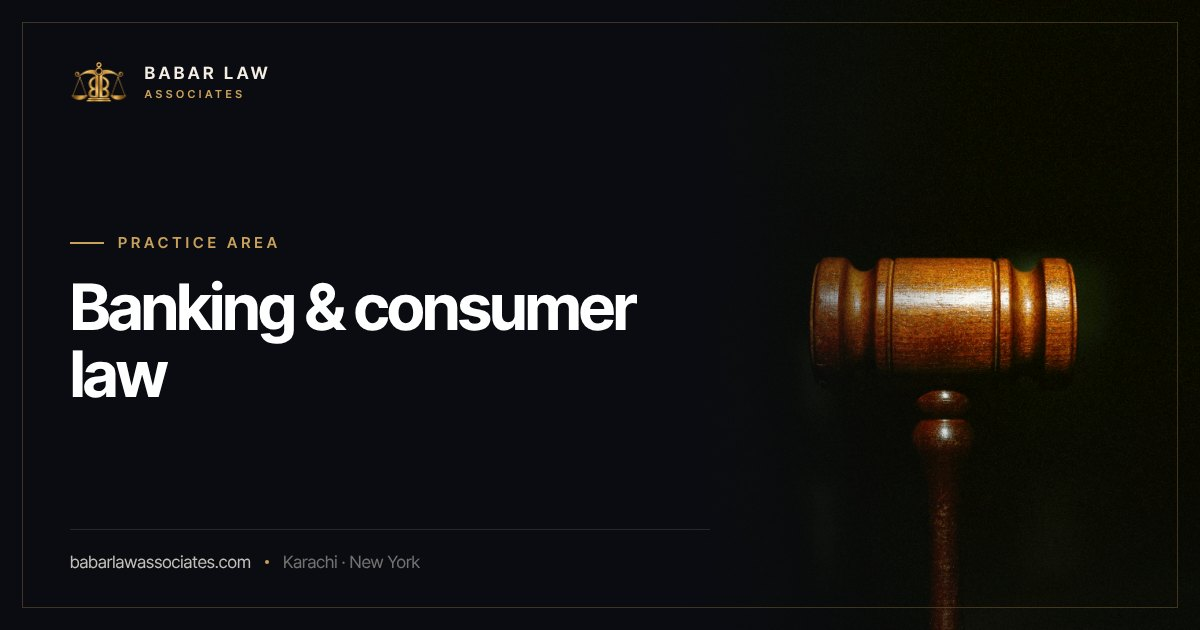
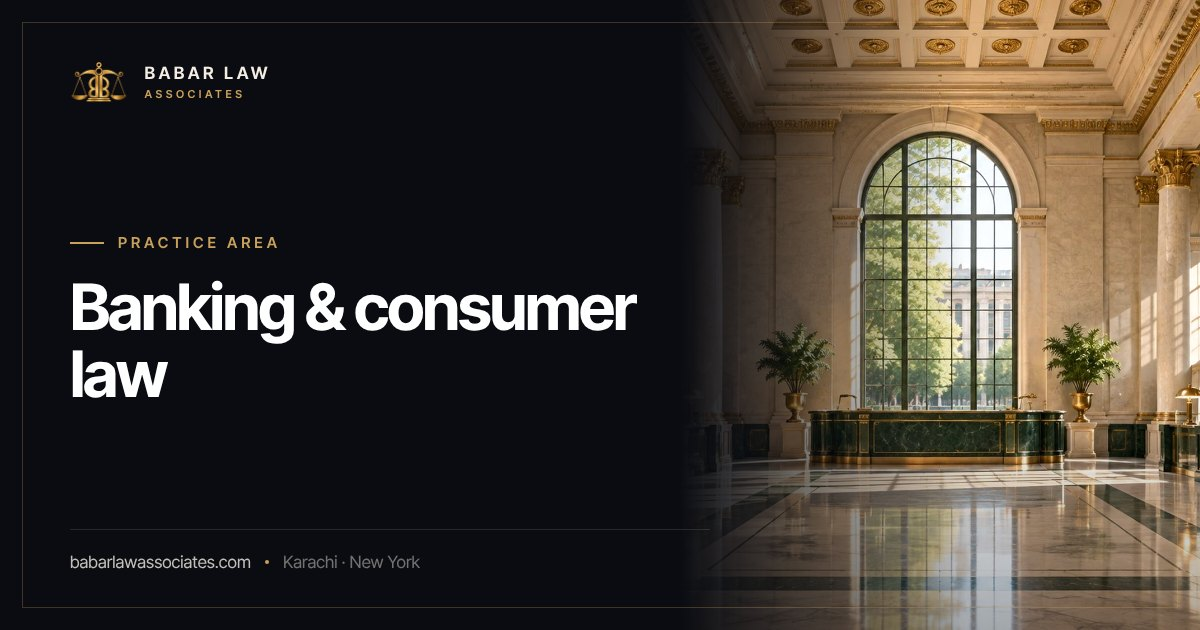
New heroes, destinations showcase, sharper Google titles (#16)
* New hero images for five practice pages and the Cyprus guide

Replace low-resolution heroes with new 2000px images: residency by
investment (Mediterranean villa), immigration (airport at sunrise),
corporate (boardroom at dusk), banking (classical banking hall) and
mediation (handshake). The Cyprus guide uses the villa as its cover.
Preview cards regenerated.

Claude-Session: https://claude.ai/code/session_01De2432audqsWNzksNNy9kc

* Library hero; sharper Google titles for bail and Cyprus guides

- Academic & advisory hero: new law library image (the lecture photo
  remains as the side image); Insights preview card uses it too
- Bail guide title targets the searches it already appears for ("what
  is pre arrest bail", "pre arrest bail section"): "Pre-Arrest Bail in
  Pakistan (Section 498 CrPC): What It Is & How to Apply"
- Cyprus guide title adds "Golden Visa" to match "cyprus golden visa
  lawyer" (33 impressions, no clicks yet)

Claude-Session: https://claude.ai/code/session_01De2432audqsWNzksNNy9kc

* Add "Where we help you go" destinations showcase

Four image cards (United States, Canada, United Kingdom, Europe) with the
main routes for each and the partner counsel involved, on the homepage
(after the practice-area index) and the Immigration & visas page. Each
card leads to the contact page. Wording is general: no outcomes promised.

Claude-Session: https://claude.ai/code/session_01De2432audqsWNzksNNy9kc

---------

diff --git a/components/Destinations.tsx b/components/Destinations.tsx
@@ -1,0 +1,109 @@
+import Image from "next/image";
+import Link from "next/link";
+import SectionHead from "@/components/SectionHead";
+import ArrowLink from "@/components/ArrowLink";
+import { Stagger, StaggerItem } from "@/components/motion/Stagger";
+
+// Main immigration destinations, shown on the homepage and the immigration
+// practice page. Routes are described generally: no outcome is promised.
+export const destinations = [
+  {
+    key: "usa",
+    country: "United States",
+    image: "/assets/destinations/usa.jpg",
+    alt: "The Lower Manhattan skyline at sunset",
+    routes: ["Student visas", "Work and business visas", "Family-based immigration"],
+    note: "With associated counsel in New York",
+  },
+  {
+    key: "canada",
+    country: "Canada",
+    image: "/assets/destinations/canada.jpg",
+    alt: "A lake in the Canadian Rockies at sunrise",
+    routes: ["Study permits", "Work permits", "Family sponsorship and permanent residence"],
+    note: "With counsel in Mississauga, Ontario",
+  },
+  {
+    key: "uk",
+    country: "United Kingdom",
+    image: "/assets/destinations/uk.jpg",
+    alt: "The Houses of Parliament and Westminster Bridge at dusk",
+    routes: ["Student visas", "Skilled Worker visas", "Family visas, refusals and reviews"],
+    note: "Study routes a particular strength",
+  },
+  {
+    key: "europe",
+    country: "Europe",
+    image: "/assets/destinations/europe.jpg",
+    alt: "A European old town square at sunrise",
+    routes: ["Schengen and national visas", "Study in the EU", "Golden Visa: Greece, Cyprus, Portugal"],
+    note: "With partners in Athens, Cyprus and Portugal",
+  },
+] as const;
+
+const wrap = "max-w-[1400px] mx-auto px-[clamp(16px,4vw,40px)]";
+
+export default function Destinations({ tone = "dark", linkToPractice = true }: { tone?: "dark" | "light"; linkToPractice?: boolean }) {
+  const dark = tone === "dark";
+  return (
+    <section className={dark ? "bg-ink" : "bg-paper text-ink"}>
+      <div className={`${wrap} py-[clamp(72px,10vw,130px)]`}>
+        <SectionHead
+          tone={tone}
+          label="Destinations"
+          title="Where we help you go."
+          aside={
+            linkToPractice ? (
+              <ArrowLink href="/practice-areas/immigration-visas" variant={dark ? "outline" : "outlineDark"}>
+                Immigration &amp; visas
+              </ArrowLink>
+            ) : (
+              <ArrowLink href="/contact" variant={dark ? "solid" : "dark"}>
+                Discuss your move
+              </ArrowLink>
+            )
+          }
+        />
+        <Stagger className="grid grid-cols-1 sm:grid-cols-2 lg:grid-cols-4 gap-4 sm:gap-5" stagger={0.08}>
+          {destinations.map((d) => (
+            <StaggerItem key={d.key}>
+              <Link
+                href="/contact"
+                className="group relative block aspect-[4/5] overflow-hidden bg-ink-3 text-cream"
+                aria-label={`${d.country}: discuss your move`}
+              >
+                <Image
+                  src={d.image}
+                  alt={d.alt}
+                  fill
+                  sizes="(max-width: 640px) 100vw, (max-width: 1024px) 50vw, 25vw"
+                  className="object-cover transition-transform duration-[1.4s] ease-out-expo group-hover:scale-[1.06]"
+                />
+                <span className="absolute inset-0 bg-[linear-gradient(180deg,rgba(7,9,13,0.15)_0%,rgba(7,9,13,0)_30%,rgba(7,9,13,0.55)_60%,rgba(7,9,13,0.92)_100%)]" />
+                <span className="absolute inset-x-0 bottom-0 p-[clamp(20px,2.4vw,28px)]">
+                  <span className="block font-display font-medium text-white text-[clamp(26px,2.4vw,32px)] leading-[1.05] tracking-[-0.03em] mb-4">
+                    {d.country}
+                  </span>
+                  <span className="grid gap-1.5 mb-5">
+                    {d.routes.map((r) => (
+                      <span key={r} className="flex items-start gap-2.5 text-[14.5px] leading-snug text-cream/85">
+                        <span className="mt-[0.55em] w-1.5 h-1.5 rounded-full bg-gold shrink-0" />
+                        {r}
+                      </span>
+                    ))}
+                  </span>
+                  <span className="flex items-center justify-between gap-4 pt-4 border-t border-cream/15">
+                    <span className="text-[12.5px] text-gold-light">{d.note}</span>
+                    <span className="shrink-0 w-9 h-9 border border-cream/35 flex items-center justify-center text-white transition-all duration-500 group-hover:bg-gold group-hover:border-gold group-hover:text-ink group-hover:-rotate-45">
+                      →
+                    </span>
+                  </span>
+                </span>
+              </Link>
+            </StaggerItem>
+          ))}
+        </Stagger>
+      </div>
+    </section>
+  );
+}

diff --git a/lib/practice.ts b/lib/practice.ts
@@ -52,9 +52,9 @@ export const practicePages: PracticePage[] = [
     ],
     forWhom: "Students, professionals, families and businesses in Pakistan and the diaspora in the US, UK, Canada and the Gulf.",
     related: ["residency-by-investment", "corporate-commercial"],
-    hero: "/assets/gallery/photo-19.jpg",
-    heroPos: "center 35%",
-    heroAlt: "Ghulam Shabbir Babar at the United States Capitol, Washington, D.C.",
+    hero: "/assets/hero/immigration-airport.jpg",
+    heroPos: "center 55%",
+    heroAlt: "A modern airport terminal at sunrise, with an aircraft taking off",
     side: "/assets/gallery/photo-03.jpg",
     sideAlt: "Ghulam Shabbir Babar beside the flags of the European Union and Belgium",
     sidePos: "center 30%",
@@ -93,9 +93,9 @@ export const practicePages: PracticePage[] = [
     ],
     forWhom: "Investors and families in Pakistan, the Gulf and beyond looking for European residency through property.",
     related: ["immigration-visas", "corporate-commercial"],
-    hero: "/assets/gallery/cyprus-02.jpg",
-    heroPos: "center 55%",
-    heroAlt: "A Karma Developers residential property in Cyprus",
+    hero: "/assets/hero/residency-villa.jpg",
+    heroPos: "center 50%",
+    heroAlt: "A Mediterranean villa with an infinity pool overlooking the sea at sunset",
     side: "/assets/gallery/cyprus-01.jpg",
     sideAlt: "Ghulam Shabbir Babar on a site visit to Karma Developers properties, Cyprus",
     sidePos: "center",
@@ -122,9 +122,9 @@ export const practicePages: PracticePage[] = [
     ],
     forWhom: "Banks and financial institutions, and individuals or businesses in disputes with them.",
     related: ["litigation", "corporate-commercial"],
-    hero: "/assets/hero/gavel.jpg",
-    heroPos: "center",
-    heroAlt: "A judge\u2019s gavel",
+    hero: "/assets/hero/banking-hall.jpg",
+    heroPos: "center 50%",
+    heroAlt: "A classical banking hall with marble columns",
     side: "/assets/gallery/photo-10.jpg",
     sideAlt: "Ghulam Shabbir Babar at his desk, Babar Law Associates, Karachi",
     sidePos: "50% center",
@@ -152,9 +152,9 @@ export const practicePages: PracticePage[] = [
     ],
     forWhom: "Founders, family businesses, investors and companies with interests in Pakistan.",
     related: ["banking-consumer-law", "mediation-adr"],
-    hero: "/assets/gallery/photo-00.jpg",
-    heroPos: "center 40%",
-    heroAlt: "Case meeting at a law office in New York",
+    hero: "/assets/hero/corporate-boardroom.jpg",
+    heroPos: "center 55%",
+    heroAlt: "A boardroom at dusk with a contract and pen, city skyline beyond",
     side: "/assets/gallery/photo-14.jpg",
     sideAlt: "Ghulam Shabbir Babar with colleagues at chambers, Karachi",
     sidePos: "center",
@@ -210,9 +210,9 @@ export const practicePages: PracticePage[] = [
     ],
     forWhom: "Businesses, partners and families who want to resolve a dispute without a long court process.",
     related: ["litigation", "corporate-commercial"],
-    hero: "/assets/gallery/photo-08.jpg",
-    heroPos: "center 40%",
-    heroAlt: "Ghulam Shabbir Babar in consultation with a client, Karachi",
+    hero: "/assets/hero/mediation-handshake.jpg",
+    heroPos: "center 45%",
+    heroAlt: "Two people shaking hands across a meeting table",
     side: "/assets/gallery/photo-11.jpg",
     sideAlt: "Ghulam Shabbir Babar with fellow advocates",
     sidePos: "45% center",
@@ -239,9 +239,9 @@ export const practicePages: PracticePage[] = [
     ],
     forWhom: "Universities, law colleges, bar associations and students.",
     related: ["immigration-visas", "corporate-commercial"],
-    hero: "/assets/gallery/photo-20.jpg",
-    heroPos: "center 30%",
-    heroAlt: "Ghulam Shabbir Babar lecturing at PAF-KIET, Karachi",
+    hero: "/assets/hero/law-library.jpg",
+    heroPos: "center 50%",
+    heroAlt: "A law library at night, with an open book under a brass lamp",
     side: "/assets/podium.png",
     sideAlt: "Ghulam Shabbir Babar speaking at a university podium",
     sidePos: "40% center",

diff --git a/lib/insights.ts b/lib/insights.ts
@@ -160,16 +160,16 @@ export const articles: Article[] = [
   {
     slug: "cyprus-permanent-residency-for-pakistani-investors",
     title: "Cyprus permanent residency: a guide for Pakistani investors",
-    seoTitle: "Cyprus Permanent Residency for Pakistani Investors (€300,000 Route)",
+    seoTitle: "Cyprus Golden Visa (Permanent Residency) for Pakistani Investors: €300,000 Route",
     description:
       "How Cyprus permanent residency by investment works for investors from Pakistan: the €300,000 requirement, income rules, who can be included, what the permit allows, and the steps to apply.",
     date: "2026-11-09",
     readMinutes: 6,
     category: "Residency by investment",
     practice: "residency-by-investment",
-    image: "/assets/gallery/cyprus-02.jpg",
-    imagePos: "center 55%",
-    imageAlt: "A Karma Developers residential property in Cyprus",
+    image: "/assets/hero/residency-villa.jpg",
+    imagePos: "center 50%",
+    imageAlt: "A Mediterranean villa with an infinity pool overlooking the sea at sunset",
     summary: [
       "Cyprus grants permanent residence, not a renewable temporary permit, to non-EU investors who make a qualifying investment of at least €300,000 (excluding VAT).",
       "Applicants must also show a secure annual income from outside Cyprus, starting at €50,000 for the main applicant.",
@@ -270,9 +270,9 @@ export const articles: Article[] = [
   {
     slug: "pre-arrest-bail-in-sindh-explained",
     title: "Pre-arrest bail in Sindh, explained",
-    seoTitle: "Pre-arrest Bail in Sindh Explained: Process and Requirements",
+    seoTitle: "Pre-Arrest Bail in Pakistan (Section 498 CrPC): What It Is & How to Apply",
     description:
-      "What pre-arrest bail is, when courts in Sindh grant it, how it differs from post-arrest and protective bail, and what to prepare if you fear arrest in a case you believe is false.",
+      "What is pre-arrest bail under Section 498 CrPC, when courts in Sindh grant it, how it differs from post-arrest and protective bail, and what to prepare if you fear arrest in a false case.",
     date: "2026-11-05",
     readMinutes: 5,
     category: "Litigation",

diff --git a/app/practice-areas/[slug]/page.tsx b/app/practice-areas/[slug]/page.tsx
@@ -12,6 +12,7 @@ import ParallaxImage from "@/components/motion/ParallaxImage";
 import { Stagger, StaggerItem } from "@/components/motion/Stagger";
 import EngagementSteps from "@/components/EngagementSteps";
 import FaqAccordion from "@/components/FaqAccordion";
+import Destinations from "@/components/Destinations";
 import { articles } from "@/lib/insights";
 import JsonLd from "@/components/JsonLd";
 import { practiceBySlug, practicePages } from "@/lib/practice";
@@ -209,6 +210,8 @@ export default async function PracticePage({ params }: PageProps<"/practice-area
           </Stagger>
         </div>
       </section>
+
+      {p.slug === "immigration-visas" && <Destinations tone="light" linkToPractice={false} />}
 
       {/* Guides from the insights section on this practice area */}
       {guides.length > 0 && (

diff --git a/app/page.tsx b/app/page.tsx
@@ -1,5 +1,6 @@
 import Image from "next/image";
 import Link from "next/link";
+import Destinations from "@/components/Destinations";
 import { ReviewSection } from "@/components/ReviewInvite";
 import Reveal from "@/components/Reveal";
 import ImageGrid from "@/components/ImageGrid";
@@ -125,6 +126,9 @@ export default function HomePage() {
       </section>
 
       <GavelBand />
+
+      {/* Destinations */}
+      <Destinations tone="light" />
 
       {/* Principal */}
       <section className="bg-ink-2 border-y border-cream/8">
